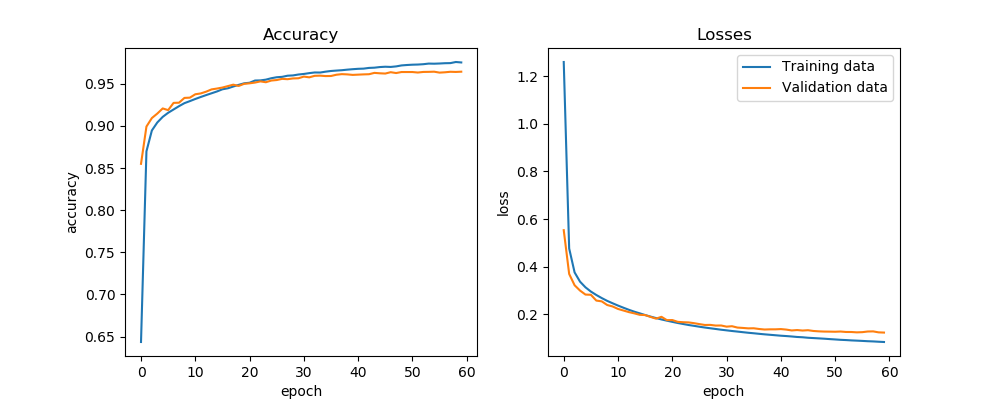
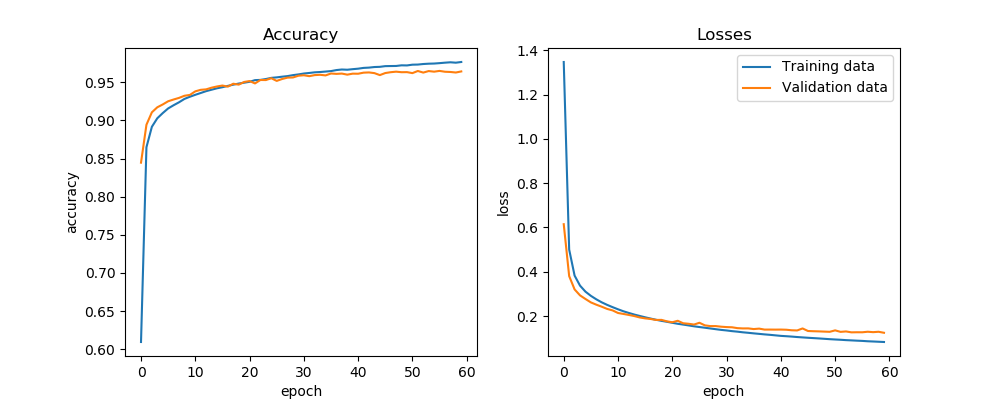
updated example run

diff --git a/mnist/README.md b/mnist/README.md
@@ -25,35 +25,35 @@ python train_wdropout.py
 
 ```sh
 
-	(keras-projects) tero@Ubik:~/Projects/keras-projects/mnist$ python train.py
-	Using Theano backend.
-	Input: 60000 samples in training set (of which 9960 are used for validation) and 10000 samples in test test.
-	____________________________________________________________________________________________________
-	Layer (type) Output Shape Param # Connected to
-	====================================================================================================
-	dense_1 (Dense) (64, 28, 28) 812 dense_input_1[0][0]
-	____________________________________________________________________________________________________
-	dense_2 (Dense) (64, 28, 28) 812 dense_1[0][0]
-	____________________________________________________________________________________________________
-	flatten_1 (Flatten) (64, 784) 0 dense_2[0][0]
-	____________________________________________________________________________________________________
-	dense_3 (Dense) (64, 10) 7850 flatten_1[0][0]
-	====================================================================================================
-	Total params: 9,474
-	Trainable params: 9,474
+	(keras-projects) /Projects/keras-projects/mnist$ python train_simple.py
+	
+	60000 samples in training set (of which 10000 are used for validation).
+	10000 samples in test test.
+	_________________________________________________________________
+	Layer (type)                 Output Shape              Param #
+	=================================================================
+	dense_1 (Dense)              (None, 28)                21980
+	_________________________________________________________________
+	dense_2 (Dense)              (None, 28)                812
+	_________________________________________________________________
+	dense_3 (Dense)              (None, 10)                290
+	=================================================================
+	Total params: 23,082
+	Trainable params: 23,082
 	Non-trainable params: 0
-	____________________________________________________________________________________________________
-	Train on 50040 samples, validate on 9960 samples
-	Epoch 1/120
-	50040/50040 [==============================] - 2s - loss: 1.3150 - acc: 0.6287 - val_loss: 0.5515 - val_acc: 0.8499
+	_________________________________________________________________
+	Train on 50000 samples, validate on 10000 samples
+	Epoch 1/60
+	2018-12-09 15:38:09.720582: I tensorflow/core/platform/cpu_feature_guard.cc:141] Your CPU supports instructions that this TensorFlow binary was not compiled to use: AVX
+	50000/50000 [==============================] - 2s 39us/step - loss: 1.3469 - acc: 0.6095 - val_loss: 0.6148 - val_acc: 0.8446
+	Epoch 2/60
+	50000/50000 [==============================] - 2s 35us/step - loss: 0.5004 - acc: 0.8648 - val_loss: 0.3805 - val_acc: 0.8943
+	Epoch 3/60
 	.
 	.
-	.
-	Epoch 120/120
-	50040/50040 [==============================] - 4s - loss: 0.0853 - acc: 0.9743 - val_loss: 0.1158 - val_acc: 0.9689
-	Final score: 0.116527532629
-	Final accuracy: 0.965
-
+	50000/50000 [==============================] - 2s 34us/step - loss: 0.0831 - acc: 0.9766 - val_loss: 0.1247 - val_acc: 0.9642
+	Final score: 0.12460193493627011
+	Final accuracy: 0.9622
 ```
 
 ## Results
